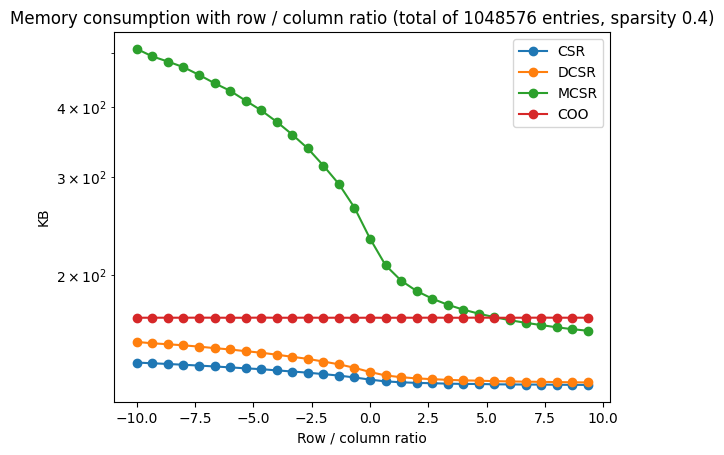
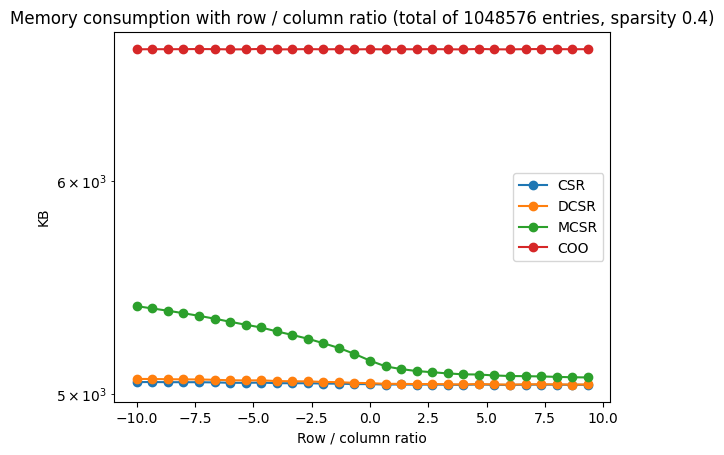
Fix: Wrong images for sparsity 0.4

diff --git a/src/test/java/org/apache/sysds/performance/matrix/MatrixStorage.java b/src/test/java/org/apache/sysds/performance/matrix/MatrixStorage.java
@@ -29,13 +29,14 @@ import org.apache.sysds.runtime.matrix.data.MatrixBlock;
 import org.apache.sysds.runtime.util.DataConverter;
 import org.apache.sysds.test.AutomatedTestBase;
 import org.apache.sysds.test.TestUtils;
+import org.junit.Test;
 
 public class MatrixStorage extends AutomatedTestBase {
 
 	private static final int resolution = 18;
 	private static final float resolutionDivisor = 2f;
 	private static final float maxSparsity = .2f;
-	private static final float dimTestSparsity = .0001f;
+	private static final float dimTestSparsity = .4f;
 
 	static float[] sparsityProvider() {
 		float[] sparsities = new float[resolution];
